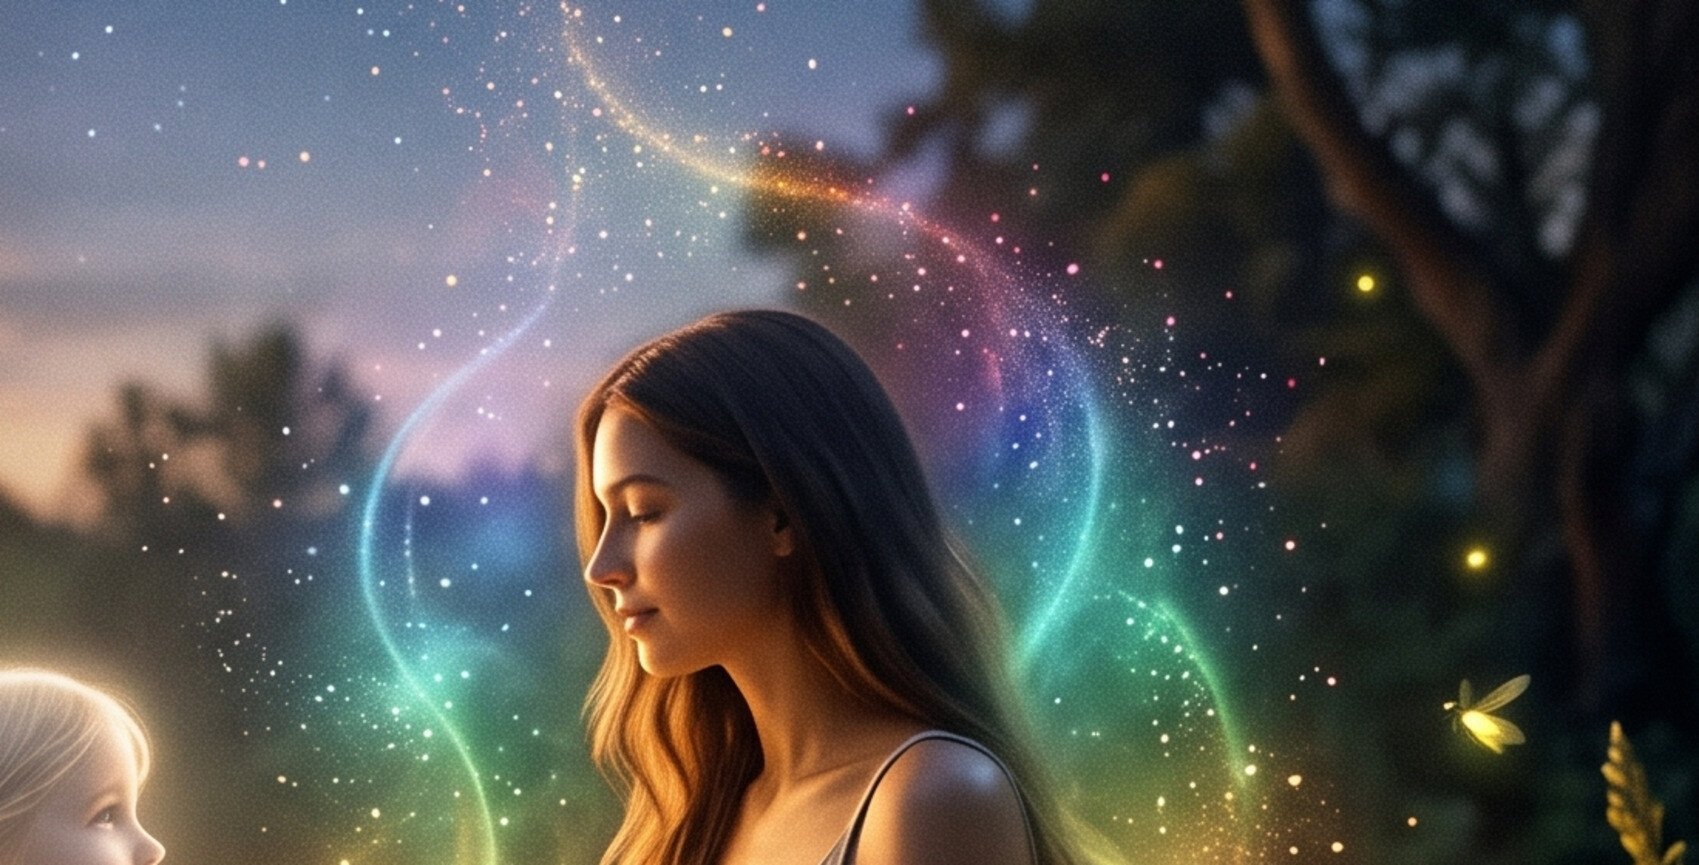
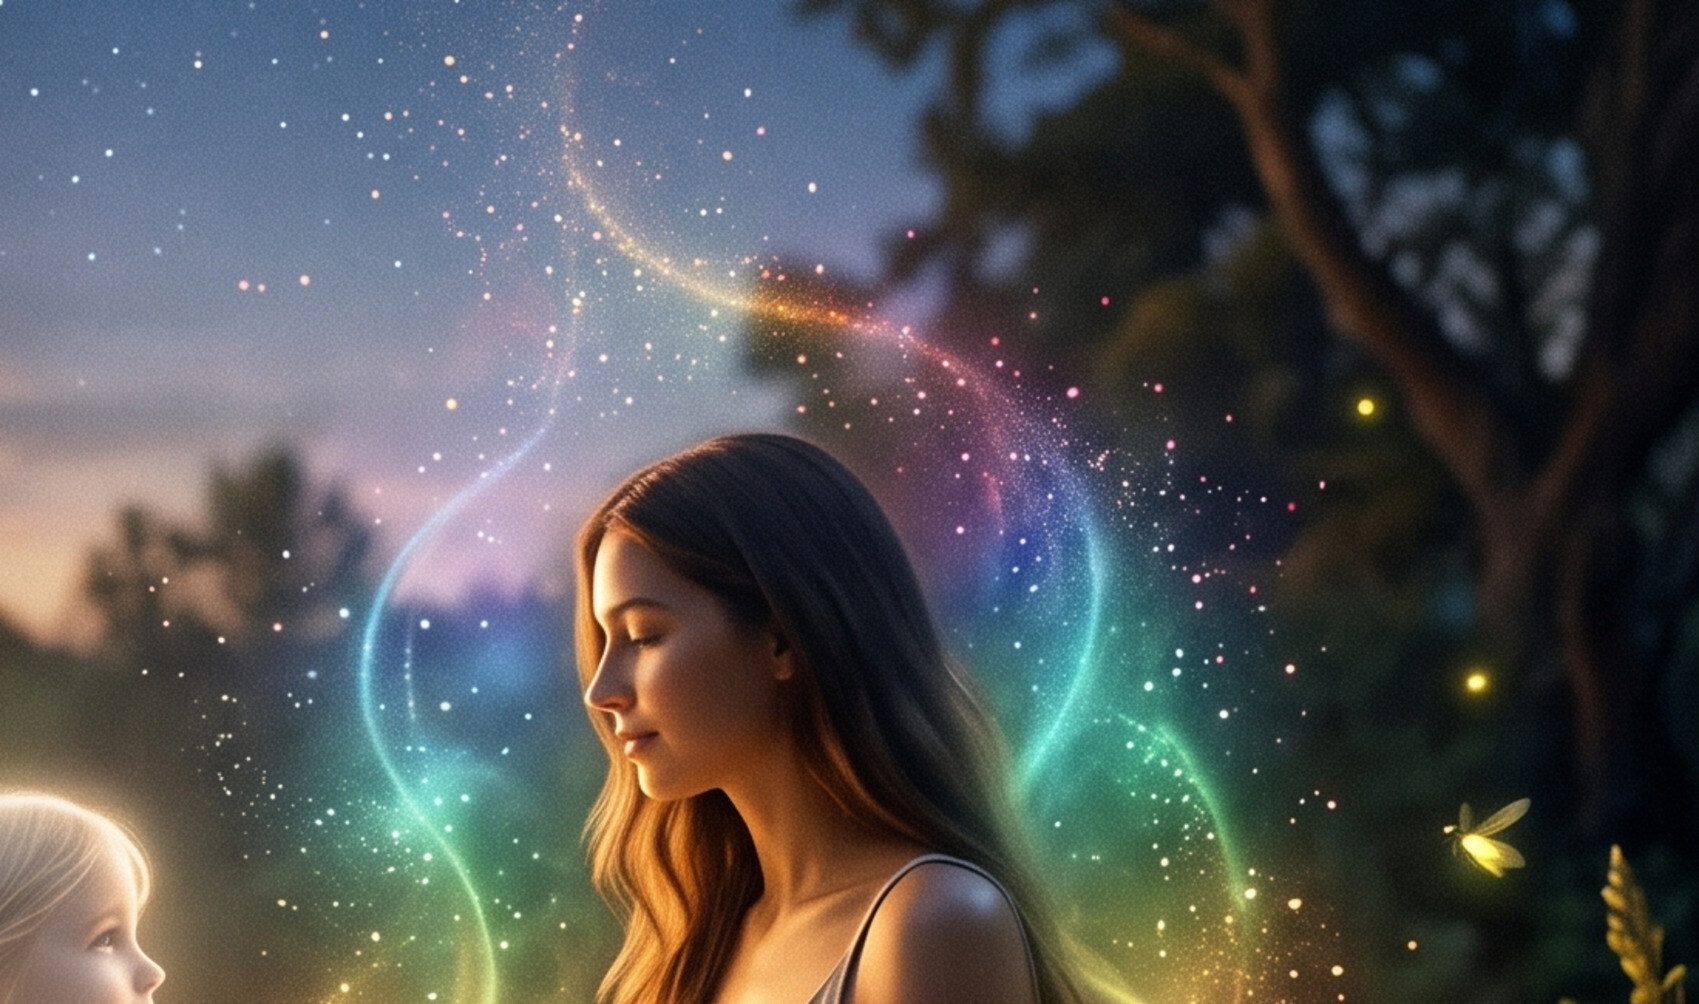
Fix over-tight hero crops and arrow/text overlap
- Vastu, Numerology and Inner Child Healing crops were tighter than
  intended, leaving little margin around the subject; re-cropped with
  more breathing room (compass chart, book/plant, sky) while still
  avoiding the source images' baked-in mockup UI
- Vastu's object-position now biases toward the top so wide screens
  crop the compass chart below rather than the roofline
- Prev/next arrow buttons were overlapping the slide paragraph text
  between the sm and lg breakpoints (their fixed inset was wider than
  the content padding at that range); arrows now only show at lg+,
  where there's always clearance

diff --git a/components/Hero.tsx b/components/Hero.tsx
@@ -7,9 +7,9 @@ import { AnimatePresence, motion } from 'framer-motion';
 import { services } from '@/lib/content';
 
 const HERO_IMAGES: Record<string, { src: string; alt: string; position: string }> = {
-  vastu: { src: '/images/hero-vastu.jpg', alt: 'A model home set on a Vastu compass chart', position: '50% 35%' },
-  numerology: { src: '/images/hero-numerology.jpg', alt: 'A numerology dial with numbers and patterns', position: 'center' },
-  'inner-child-healing': { src: '/images/hero-inner-child-healing.jpg', alt: 'A woman and her glowing inner child in a starlit garden', position: '40% 40%' },
+  vastu: { src: '/images/hero-vastu.jpg', alt: 'A model home set on a Vastu compass chart', position: '50% 12%' },
+  numerology: { src: '/images/hero-numerology.jpg', alt: 'A numerology dial with numbers and patterns', position: '35% 65%' },
+  'inner-child-healing': { src: '/images/hero-inner-child-healing.jpg', alt: 'A woman and her glowing inner child in a starlit garden', position: '45% 55%' },
   'lama-fera': { src: '/images/hero-lama-fera.jpg', alt: 'A healer performing an energy ritual over a meditating woman', position: 'center' },
 };
 
@@ -125,7 +125,7 @@ export default function Hero() {
           type="button"
           aria-label="Previous slide"
           onClick={() => go(index - 1)}
-          className="absolute left-4 top-1/2 z-10 hidden -translate-y-1/2 items-center justify-center border border-white/40 bg-ink/30 p-2.5 text-white backdrop-blur-sm transition-colors hover:bg-ink/55 sm:flex"
+          className="absolute left-4 top-1/2 z-10 hidden -translate-y-1/2 items-center justify-center border border-white/40 bg-ink/30 p-2.5 text-white backdrop-blur-sm transition-colors hover:bg-ink/55 lg:flex"
         >
           <svg width="18" height="18" viewBox="0 0 24 24" fill="none" stroke="currentColor" strokeWidth="2" strokeLinecap="round" strokeLinejoin="round">
             <path d="M15 18l-6-6 6-6" />
@@ -135,7 +135,7 @@ export default function Hero() {
           type="button"
           aria-label="Next slide"
           onClick={() => go(index + 1)}
-          className="absolute right-4 top-1/2 z-10 hidden -translate-y-1/2 items-center justify-center border border-white/40 bg-ink/30 p-2.5 text-white backdrop-blur-sm transition-colors hover:bg-ink/55 sm:flex"
+          className="absolute right-4 top-1/2 z-10 hidden -translate-y-1/2 items-center justify-center border border-white/40 bg-ink/30 p-2.5 text-white backdrop-blur-sm transition-colors hover:bg-ink/55 lg:flex"
         >
           <svg width="18" height="18" viewBox="0 0 24 24" fill="none" stroke="currentColor" strokeWidth="2" strokeLinecap="round" strokeLinejoin="round">
             <path d="M9 6l6 6-6 6" />
